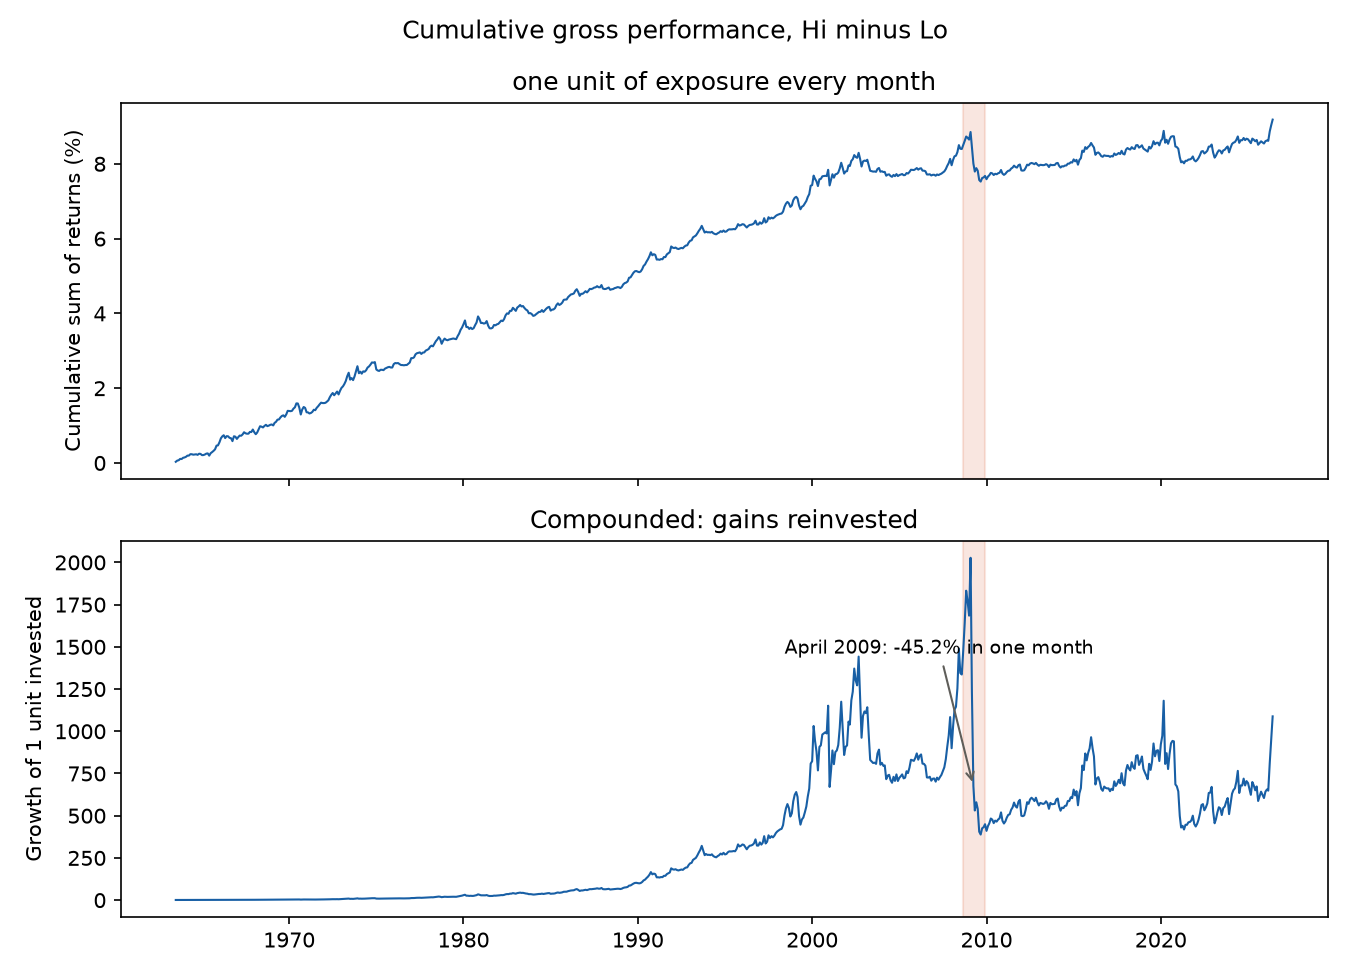
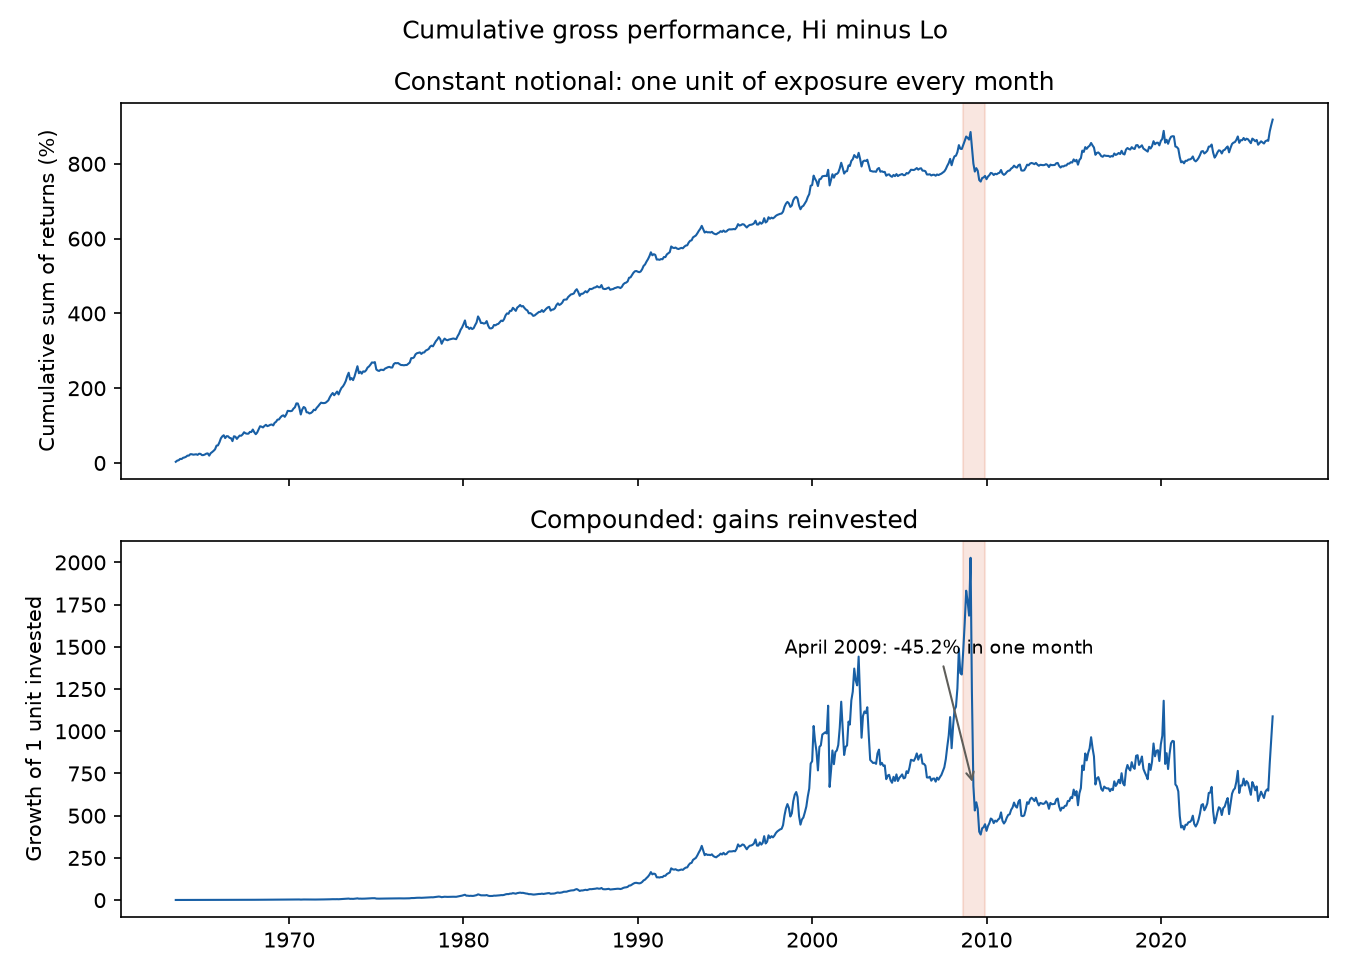
plot correction

Changed region(s): [[0.28, 0.0615, 0.7778, 0.0923], [0.0311, 0.1231, 0.0933, 0.4615]]

diff --git a/src/figures.py b/src/figures.py
@@ -70,9 +70,9 @@ def plot_cumulative(returns):
     for ax in (ax1, ax2):
         ax.axvspan(pd.Timestamp('2008-09-01'), pd.Timestamp('2009-12-01'), color=RED, alpha=0.15)
 
-    ax1.plot(summed.index, summed.values, color=BLUE, linewidth=1)
+    ax1.plot(summed.index, summed.values * 100, color=BLUE, linewidth=1)
     ax1.set_ylabel('Cumulative sum of returns (%)')
-    ax1.set_title('one unit of exposure every month')
+    ax1.set_title('Constant notional: one unit of exposure every month')
 
     ax2.plot(compounded.index, compounded.values, color=BLUE, linewidth=1)
     ax2.set_ylabel('Growth of 1 unit invested')
